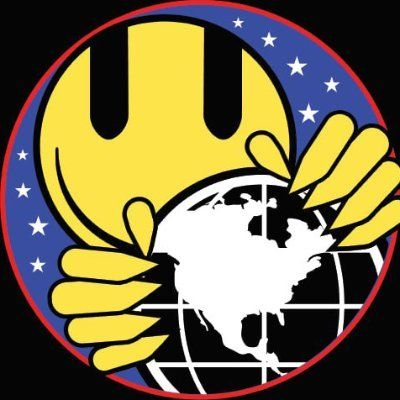
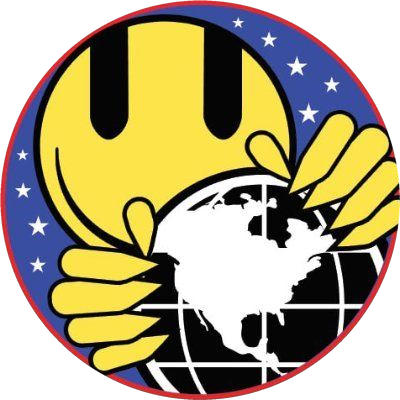
The $CULT coin is cut to its circle: the picture was a square with black corners, and every price, the resource list, the stats and ambient mode's strip showed them. Its corners are clear now, with a smooth edge, and its address carries a version so a copy kept for offline play isn't the old square 

Changed region(s): [[0.0, 0.0, 1.0, 1.0], [0.0, 0.0, 0.48, 0.48]]

diff --git a/sw.js b/sw.js
@@ -2,10 +2,10 @@
    picture is kept the first time it's used (or all at once, from settings). The page itself and version.json are
    asked for fresh every time and only come from here with no connection. build.py stamps V, so a new version of
    the game is a new version of this file, and the browser installs it on the next visit. */
-const V = "ff66175b72";
+const V = "1af858d28b";
 const CORE = "network-core-" + V, PICS = "network-assets";
 const SHELL = ["./", "index.html", "manifest.webmanifest", "css/style.css?v=" + V, "js/data.js?v=" + V, "js/fx.js?v=" + V, "js/game.js?v=" + V, "js/ambient.js?v=" + V,
-  "assets/asset_index.json", "assets/img/cult_coin.png", "assets/img/cancel.png",
+  "assets/asset_index.json", "assets/img/cult_coin.png?v=2", "assets/img/cancel.png",
   "assets/icons/favicon-32.png", "assets/icons/icon-192.png", "assets/icons/icon-512.png", "assets/icons/icon-maskable.png", "assets/icons/apple-touch-icon.png"];
 
 self.addEventListener("install", e => {

diff --git a/index.html b/index.html
@@ -31,7 +31,7 @@
 <meta name="apple-mobile-web-app-capable" content="yes">
 <meta name="apple-mobile-web-app-status-bar-style" content="black-translucent">
 <meta name="apple-mobile-web-app-title" content="the network">
-<link rel="stylesheet" href="css/style.css?v=ff66175b72">
+<link rel="stylesheet" href="css/style.css?v=1af858d28b">
 </head>
 <body>
 <canvas id="bg-canvas" aria-hidden="true"></canvas>
@@ -116,9 +116,9 @@
 <div id="grade" aria-hidden="true"></div>
 <canvas id="fx-canvas" aria-hidden="true"></canvas>
 <div id="phase-banner" aria-hidden="true"></div>
-<script src="js/data.js?v=ff66175b72"></script>
-<script src="js/fx.js?v=ff66175b72"></script>
-<script src="js/game.js?v=ff66175b72"></script>
-<script src="js/ambient.js?v=ff66175b72"></script>
+<script src="js/data.js?v=1af858d28b"></script>
+<script src="js/fx.js?v=1af858d28b"></script>
+<script src="js/game.js?v=1af858d28b"></script>
+<script src="js/ambient.js?v=1af858d28b"></script>
 </body>
 </html>

diff --git a/js/game.js b/js/game.js
@@ -43,7 +43,7 @@ function fmtTime(sec){
 }
 const pct = x => Math.round(x*100)+"%";
 const localFile = path => (window.INLINE_FILES && window.INLINE_FILES[path]) || path; // dist.html carries its pictures inside it
-const COIN = localFile("assets/img/cult_coin.png");
+const COIN = window.INLINE_FILES ? localFile("assets/img/cult_coin.png") : "assets/img/cult_coin.png?v=2"; // v2: cut to its circle (a kept copy of the square one is passed over)
 const resIcon = id => RES_BY[id].icon==="coin" ? '<img class="coin" src="'+COIN+'" alt="$CULT">' : RES_BY[id].icon;
 
 /* ---------- state ---------- */
